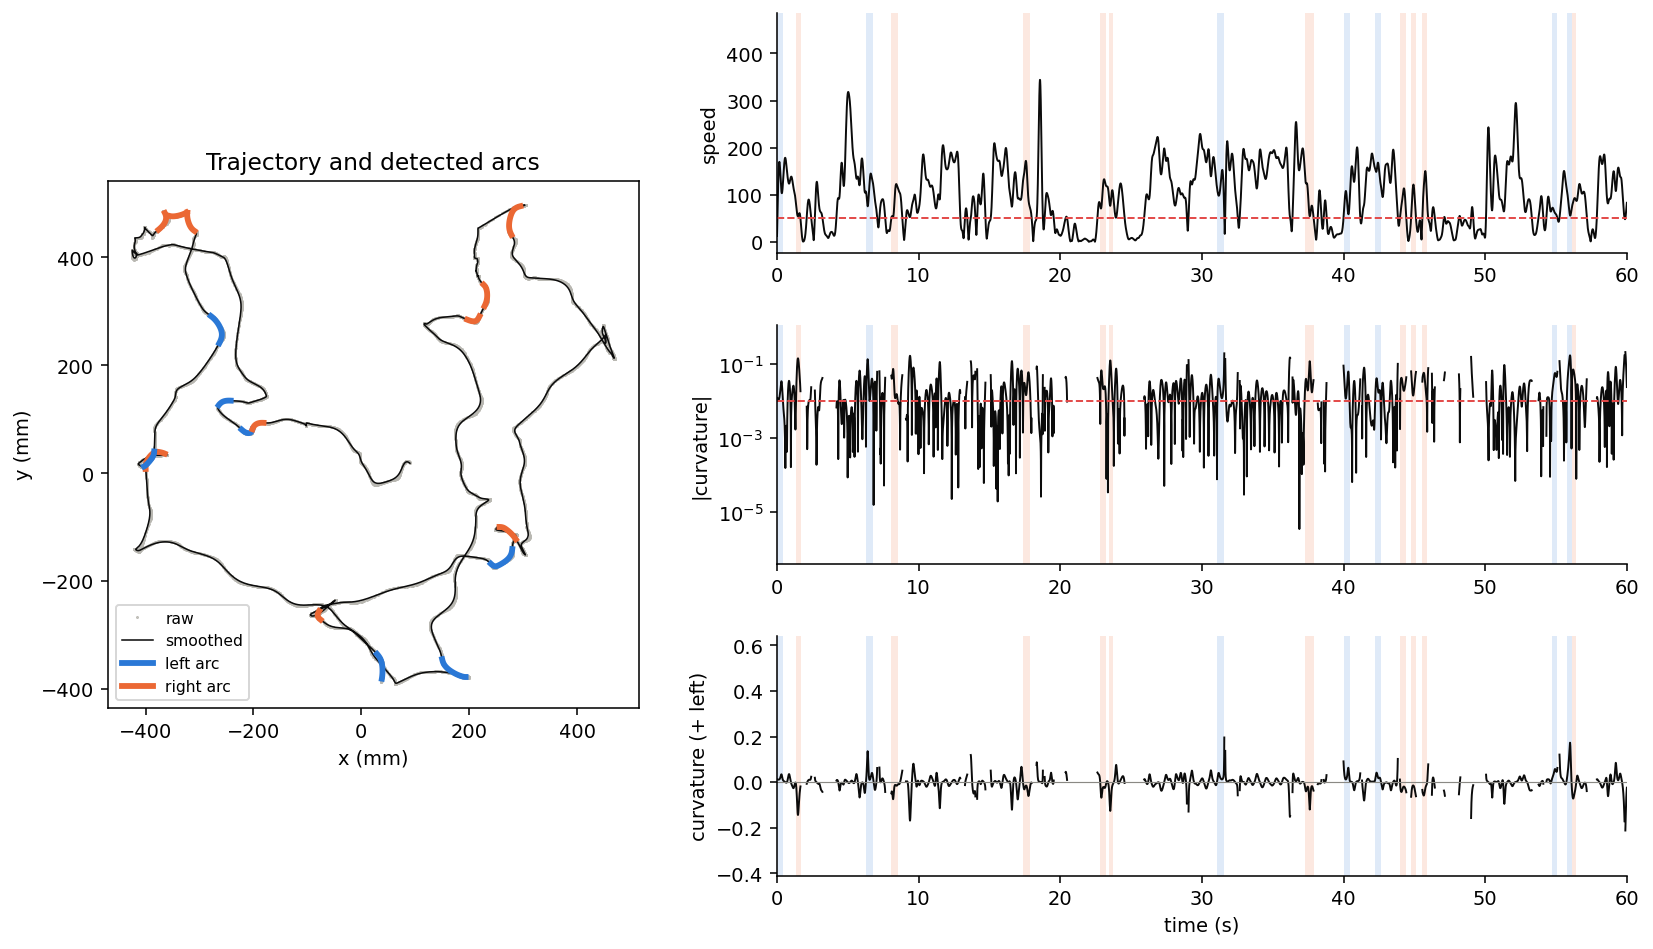
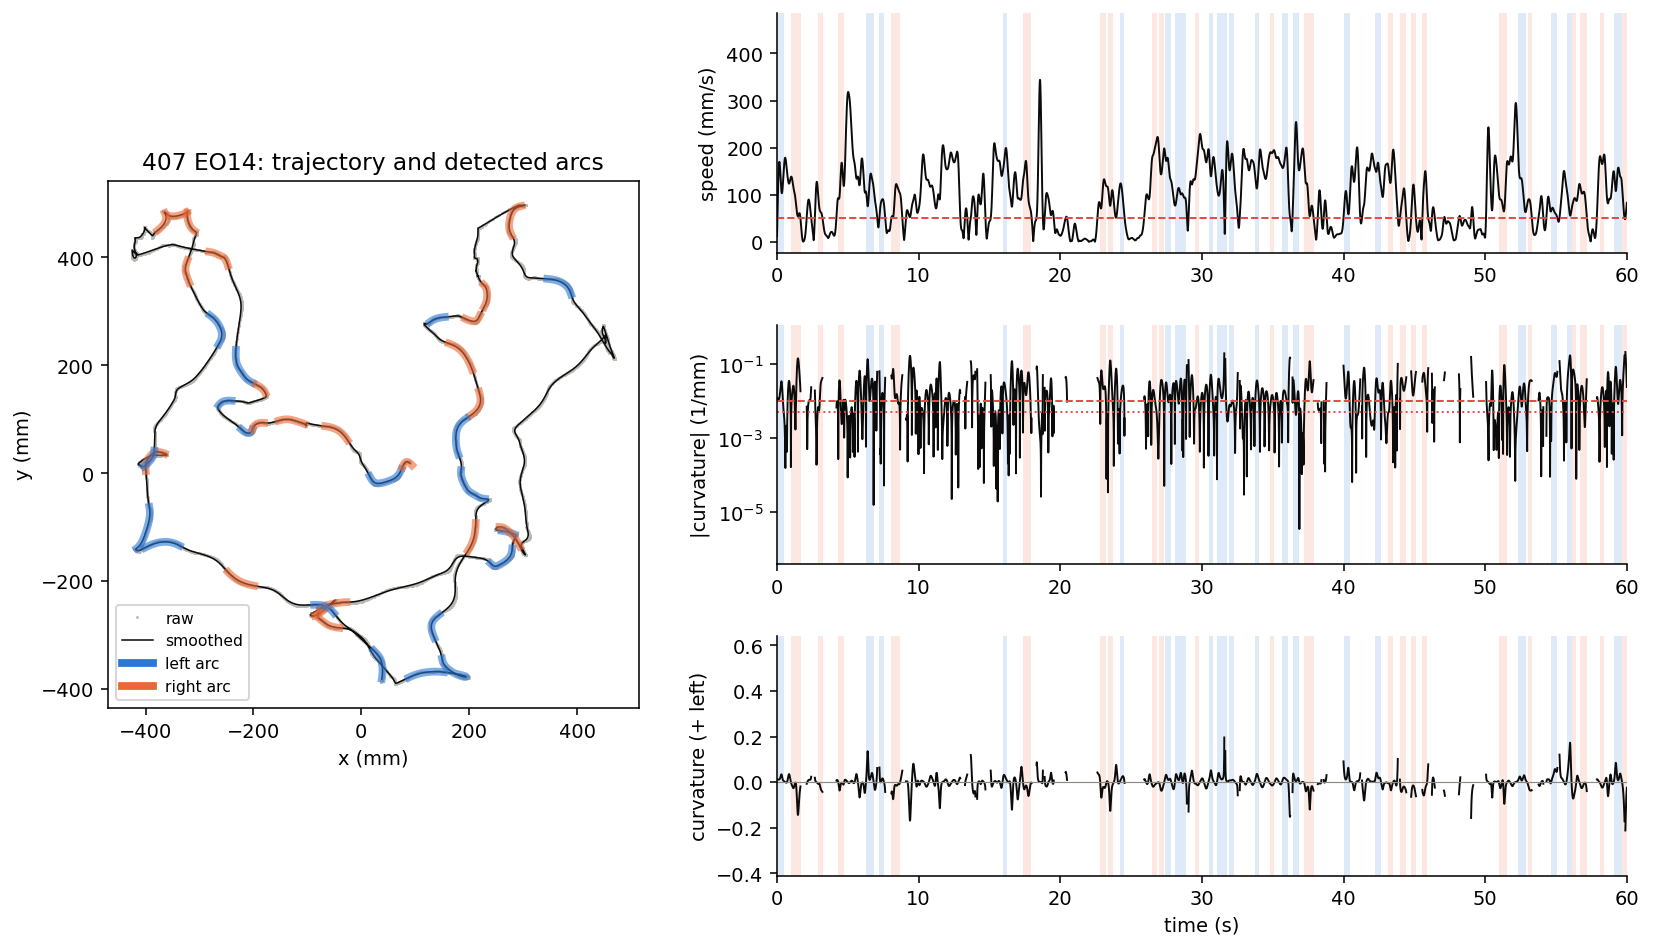
optimizing arc fits and trying to be conservative

diff --git a/analyses/test_findarcs.py b/analyses/test_findarcs.py
@@ -201,7 +201,9 @@ def score(segs, truth, x, y, kappa, fs):
     correct = [tru[sign][s:e].mean() >= 0.5 for s, e, sign in segs]
     recall = np.mean(found) if found else np.nan
     precision = np.mean(correct) if correct else np.nan
+    n_det_frames = det[1].sum() + det[-1].sum()
     return dict(n_truth=len(truth), n_det=len(segs), recall=recall, precision=precision,
+                frame_prec=((det[1] & tru[1]).sum() + (det[-1] & tru[-1]).sum()) / n_det_frames if n_det_frames else np.nan,
                 f1=2 * recall * precision / (recall + precision) if recall + precision > 0 else 0.0,
                 rad_err=np.median(rad_err) if rad_err else np.nan,       # median |log(R_det / R_true)|
                 turn_err=np.median(turn_err) if turn_err else np.nan,    # median (|det turn| - true turn), deg
